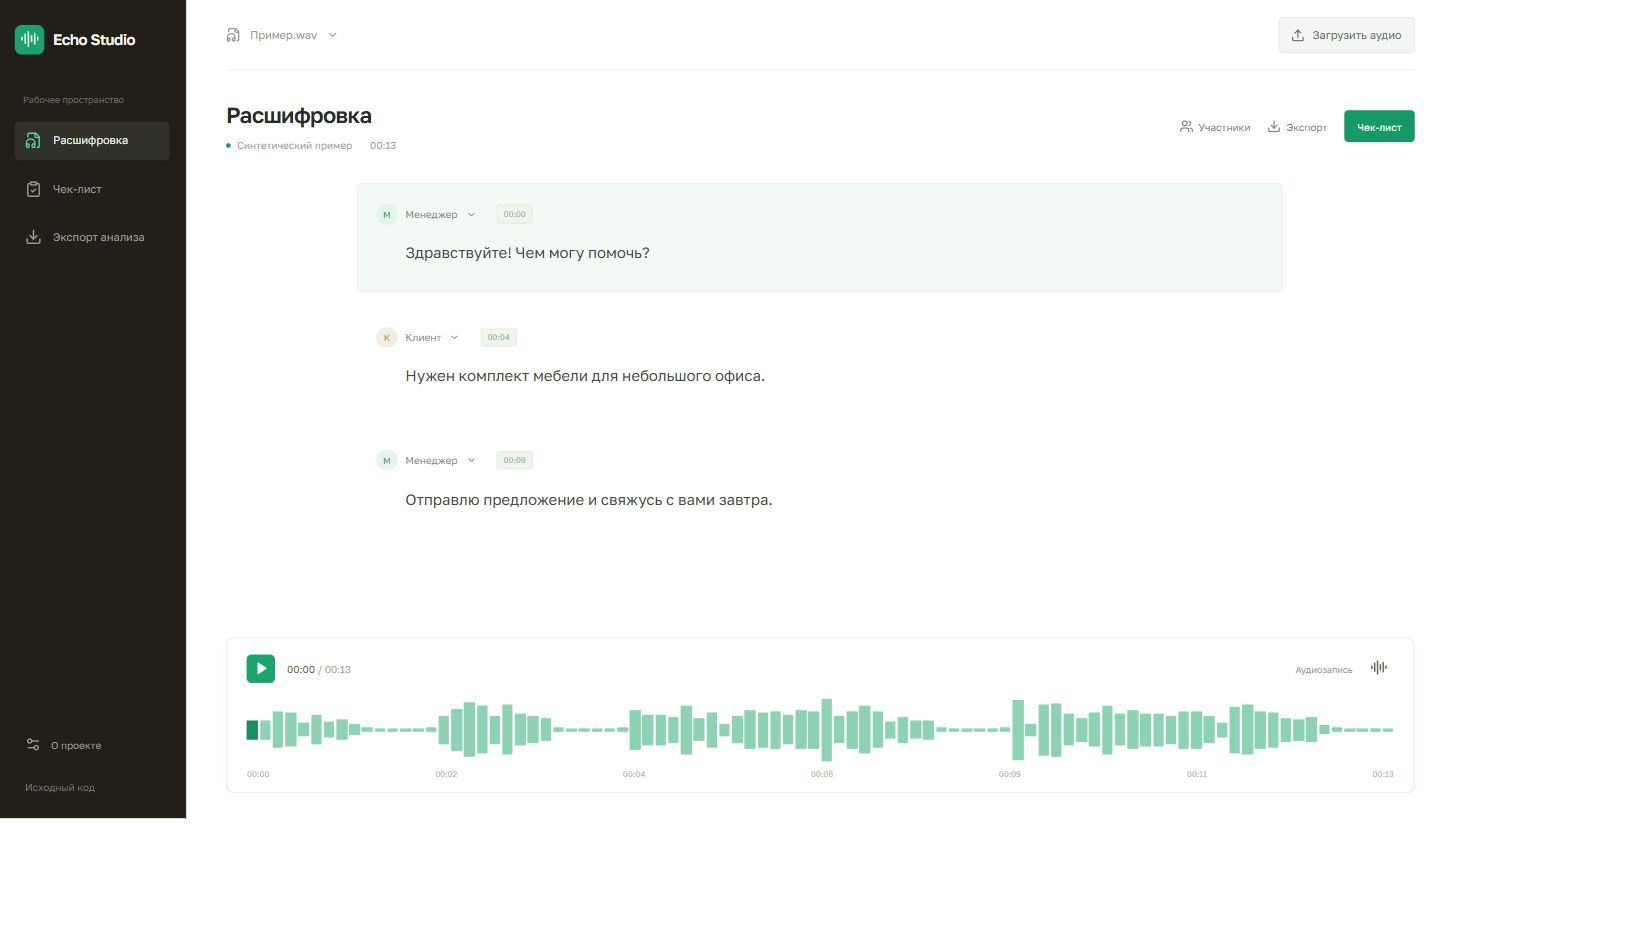
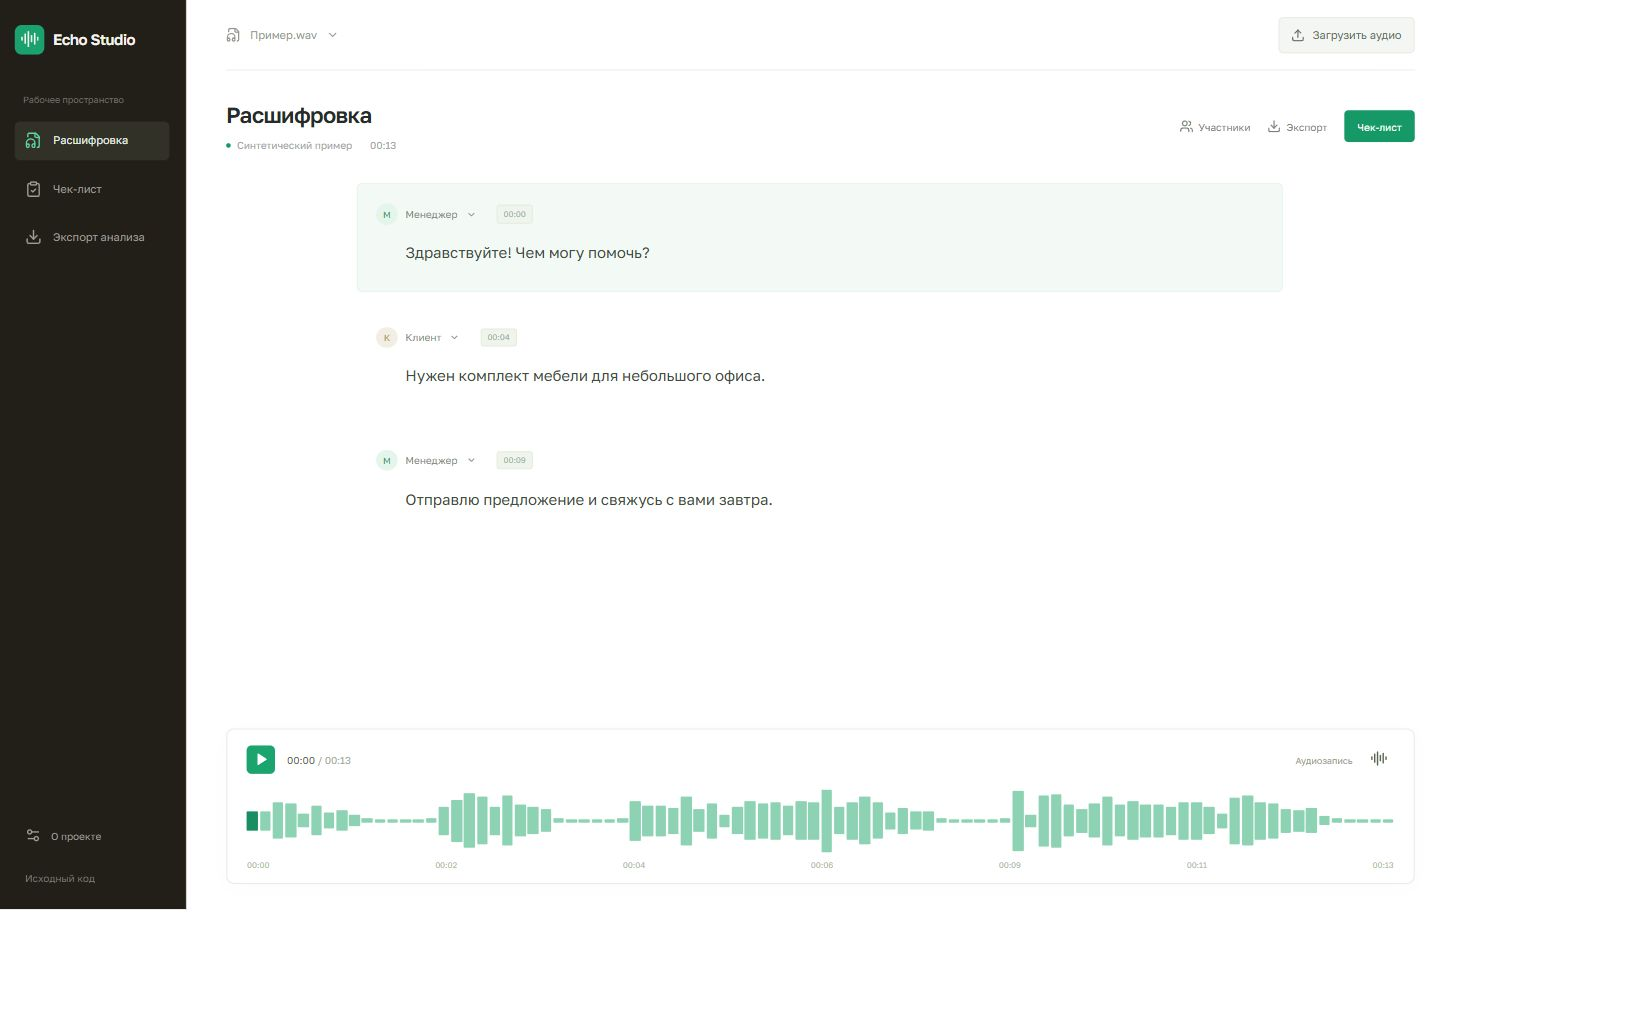
Improve project documentation and refresh clean interface previews

diff --git a/src/styles.css b/src/styles.css
@@ -1,2 +1,4 @@
 @import url('https://fonts.googleapis.com/css2?family=Golos+Text:wght@400;500;600;700&display=swap');
 :root{font-family:'Golos Text',Arial,sans-serif;background:#fff;color:#262c29;font-synthesis:none;--green:#179867;--line:#eef0ed;--muted:#9b9f99}*{box-sizing:border-box}body{margin:0}button,input,select{font:inherit}button{cursor:pointer;border:0;background:transparent;color:inherit}button:disabled{opacity:.45;cursor:default}button:focus-visible,a:focus-visible,select:focus-visible{outline:2px solid #15976a;outline-offset:4px}a{text-decoration:none;color:inherit}h1,h2,h3,p{margin:0}.echo-app{display:grid;grid-template-columns:186px minmax(0,1fr);min-height:100vh}.echo-sidebar{background:#221f19;color:#9f9c94;padding:25px 15px;display:flex;flex-direction:column;border-right:1px solid #363126}.echo-brand{display:flex;align-items:center;gap:9px;color:#f6f4ee;font-size:15px;font-weight:600;letter-spacing:-.4px}.echo-brand>span{background:#1aa16e;display:grid;place-items:center;width:29px;height:29px;border-radius:7px}.library-label{font-size:9px;color:#706f66;margin:40px 8px 16px}.echo-sidebar nav{display:flex;flex-direction:column;gap:9px}.echo-sidebar nav button{display:flex;align-items:center;gap:11px;padding:11px 10px;font-size:11px;text-align:left;border-radius:5px}.echo-sidebar nav button.active{background:#323128;color:#e4eee3}.echo-sidebar nav button.active svg{color:#5fd5a1}.sidebar-bottom{margin-top:auto;display:flex;flex-direction:column;gap:18px;padding-top:35px;font-size:10px}.sidebar-bottom button{display:flex;align-items:center;gap:10px;padding:10px}.sidebar-bottom a{padding:0 10px;color:#79786f}.echo-main{display:flex;flex-direction:column;height:100vh;min-height:710px;min-width:0;padding:0 40px 25px;background:#fff}.echo-toolbar{height:71px;display:flex;justify-content:space-between;align-items:center;border-bottom:1px solid var(--line);gap:15px;flex-shrink:0}.record-name{display:flex;align-items:center;gap:9px;font-size:11px;color:#93998f}.upload-btn{display:flex;align-items:center;gap:7px;font-size:11px;color:#626d63;background:#f4f6f3;border:1px solid #e7ece5;border-radius:5px;padding:10px 12px}.document-head{display:flex;justify-content:space-between;align-items:center;gap:20px;padding:30px 0 23px;flex-shrink:0}.document-head h1{font-size:22px;font-weight:600;letter-spacing:-.6px}.document-head p{display:flex;align-items:center;gap:6px;font-size:10px;color:#a1a69d;margin-top:12px}.dot{height:5px;width:5px;border-radius:50%;background:var(--green)}.duration{margin-left:12px}.document-actions{display:flex;align-items:center;gap:17px}.document-actions>button{display:flex;align-items:center;gap:5px;font-size:10px;color:#7b8277;padding:7px 0}.green,.document-actions>button.green{background:var(--green);color:#fff;border-radius:4px;font-size:10px;padding:10px 13px}.document-body{flex:1;min-height:200px;overflow:auto;padding:8px 0 20px}.transcript{max-width:950px;margin:0 auto;padding:0 12px}.utterance{padding:20px 18px 25px;border-radius:5px;margin-bottom:13px;border:1px solid transparent}.utterance.active{background:#f3faf6;border-color:#eaf3ec}.speaker-row{display:flex;align-items:center;gap:8px;margin-bottom:14px}.speaker-avatar{height:21px;width:21px;border-radius:50%;background:#e4f6ec;color:#4b976e;display:grid;place-items:center;font-size:9px}.speaker-avatar.client{background:#f2eee3;color:#a79964}.speaker{display:flex;align-items:center;gap:8px;color:#7f8e7e;font-size:10px;padding:0}.timestamp{font-size:8px;color:#a1b09d;background:#eff5ec;border:1px solid #e6eddf;padding:3px 6px;border-radius:3px;margin-left:12px}.transcript-text{text-align:left;display:block;width:100%;padding:0 0 0 29px;line-height:1.85;font-size:15px;color:#434c41}.role-editor{display:flex;align-items:center;gap:12px;margin:18px 0 0 29px;font-size:11px;color:#87927d}.role-editor select{font-size:11px;padding:8px;border:1px solid #dce5d5;border-radius:4px;color:#556a47;background:#fff}.roles-save{margin:10px 30px}.audio-dock{border:1px solid #e8ede6;border-radius:8px;padding:16px 20px 12px;box-shadow:0 3px 20px #18291b03;flex-shrink:0;background:#fff}.transport{display:flex;align-items:center;gap:12px;font-size:10px;color:#596650}.play-btn{display:grid;place-items:center;background:#1ca46e;color:white;height:28px;width:28px;border-radius:5px}.muted{color:#a4aca0}.audio-format{margin-left:auto;color:#99a48f;font-size:9px}.wave{height:74px;display:flex;align-items:center;gap:2px;padding:4px 0;margin-top:10px;overflow:hidden}.wave button{flex:1;min-width:2px;padding:0;border-radius:1px;background:#8cd2b3}.wave button.played{background:#198e62}.ruler{display:flex;justify-content:space-between;font-size:8px;color:#adb9a4;margin-top:3px}.checklist-view{max-width:950px;margin:0 auto;padding:15px}.checklist-summary{display:flex;align-items:center;gap:22px;padding:0 0 30px;border-bottom:1px solid var(--line)}.checklist-summary>span{font-size:30px;font-weight:500;color:#1b9467}.checklist-summary h2{font-size:14px;font-weight:550}.checklist-summary p{font-size:11px;color:#9ba693;margin-top:8px}.check-row{width:100%;display:flex;align-items:center;gap:18px;text-align:left;padding:26px 0;border-bottom:1px solid var(--line)}.check-row svg{color:#1da773;flex-shrink:0}.check-row h3{font-size:13px;font-weight:500}.check-row p{font-size:12px;color:#8b9583;margin-top:10px}.check-row>span{margin-left:auto;font-size:10px;color:#72a37d}.method{font-size:10px;color:#a1ad99;margin-top:25px;line-height:1.6}.empty{color:#9aa493;padding:30px;font-size:12px}.error{background:#fff0e9;color:#a35c40;font-size:12px;border-radius:5px;padding:12px;margin-top:15px}.echo-backdrop{position:fixed;inset:0;background:#21271c66;backdrop-filter:blur(3px);display:grid;place-items:center;padding:20px;z-index:20}.echo-dialog{padding:25px;background:#fff;border-radius:10px;max-width:460px;border:1px solid #e0e7da}.echo-dialog header{display:flex;justify-content:space-between;align-items:center;margin-bottom:25px}.echo-dialog h2{font-size:18px}.echo-dialog p{font-size:13px;line-height:1.9;margin-bottom:18px;color:#7a8870}@media(min-width:1500px){.echo-app{grid-template-columns:210px minmax(0,1fr)}.echo-main{padding-left:55px;padding-right:55px}.transcript{max-width:1100px}.document-head{padding-top:35px}.utterance{padding:25px 22px 30px}}@media(max-width:1050px){.echo-app{grid-template-columns:165px 1fr}.echo-main{padding:0 24px 22px}.document-actions{gap:10px}.document-head h1{font-size:20px}.echo-sidebar{padding:20px 10px}.echo-brand{font-size:13px}}@media(max-width:700px){.echo-app{display:block}.echo-sidebar{flex-direction:row;align-items:center;justify-content:space-between;padding:12px 14px;border-right:0}.echo-brand{font-size:13px}.echo-brand>span{width:25px;height:25px}.echo-sidebar nav{flex-direction:row;gap:3px}.echo-sidebar nav button{font-size:0;padding:8px}.echo-sidebar nav button svg{height:17px;width:17px}.library-label,.sidebar-bottom{display:none}.echo-main{height:calc(100dvh - 53px);min-height:630px;padding:0 16px 16px}.echo-toolbar{height:60px}.document-head{padding:25px 0 10px;align-items:flex-start;gap:12px}.document-head h1{font-size:18px}.document-actions{gap:7px;flex-wrap:wrap;justify-content:end;max-width:145px}.document-actions>button{font-size:9px}.document-actions>button:first-child{display:none}.transcript{padding:0}.utterance{padding:17px 8px}.transcript-text{font-size:13px;line-height:1.8}.document-head p{font-size:8px}.audio-dock{padding:13px 12px}.wave{height:65px}.checklist-view{padding:10px 0}.checklist-summary{gap:14px}.checklist-summary h2{font-size:12px}.check-row{gap:12px}.check-row p{font-size:11px}.check-row h3{font-size:12px}.ruler{font-size:7px}}@media(prefers-reduced-motion:reduce){*{transition:none!important;animation:none!important}}
+
+html[data-preview],html[data-preview] *{scrollbar-width:none!important}html[data-preview]::-webkit-scrollbar,html[data-preview] *::-webkit-scrollbar{display:none!important}

diff --git a/src/main.tsx b/src/main.tsx
@@ -1,1 +1,1 @@
-import React from 'react';import {createRoot} from 'react-dom/client';import App from './App';import './styles.css';createRoot(document.getElementById('root')!).render(<React.StrictMode><App/></React.StrictMode>);
+import React from 'react';import {createRoot} from 'react-dom/client';import App from './App';import './styles.css';if(new URLSearchParams(window.location.search).has('preview'))document.documentElement.setAttribute('data-preview','');createRoot(document.getElementById('root')!).render(<React.StrictMode><App/></React.StrictMode>);

diff --git a/README.md b/README.md
@@ -1,59 +1,50 @@
 # Echo Studio
 
-Audio review with synchronized transcripts, evidence-based checklists and local speech recognition.
+Разбор аудиозаписей в одном окне: расшифровка, участники разговора и чек-лист с подтверждающими репликами. Нажатие на реплику переводит запись к нужному моменту.
 
-![Interface](docs/preview.png)
+[![Проверки](https://github.com/famelikolbut5/echo-studio/actions/workflows/ci.yml/badge.svg)](https://github.com/famelikolbut5/echo-studio/actions/workflows/ci.yml)
 
-[Validation notes](docs/VALIDATION.md) · [Source license](LICENSE)
+![Интерфейс Echo Studio](docs/preview.png)
 
-## What it does
+## Возможности
 
-Речь - расшифровка с временными метками - правила чек-листа - проверка фрагмента и экспорт JSON.
+- Загрузка аудио и локальная расшифровка через faster-whisper.
+- Прослушивание записи с переходом по временным меткам.
+- Ручное назначение ролей менеджера и клиента.
+- Проверка чек-листа по ключевым словам и экспорт результата в JSON.
 
-Audio - faster-whisper - word timestamps - transparent keyword checklist - synchronized review.
+## Как устроен проект
 
-Independent portfolio demo, written from scratch. Synthetic examples only. No commercial source, proprietary prompts, client recordings or customer data.
+Распознавание выполняется на сервере, без отправки записи во внешний сервис. Чек-лист показывает найденную реплику и время, чтобы результат можно было проверить на слух. Роли участников можно назначить вручную.
 
-## Run locally
+**Стек:** Python, FastAPI, faster-whisper, React, TypeScript, Vite.
 
-Python 3.12, Node 22 and pnpm 11.19.0:
+## Структура
 
-```sh
-python -m venv .venv
-# Windows: .venv\Scripts\activate
-# Linux/macOS: source .venv/bin/activate
-pip install -r requirements.txt
-pnpm install --frozen-lockfile
-pnpm build
-uvicorn backend.app:app --host 127.0.0.1 --port 8000
+```text
+backend/        обработка аудио, расшифровка и проверка чек-листа
+src/            интерфейс, состояния и работа с API
+public/         синтетическая запись для первого знакомства
+tests/          проверки поведения серверной части
+docs/           запуск, проверки и материалы проекта
+Dockerfile      сборка интерфейса и серверного приложения
+compose.yml     локальный запуск с сохранением данных
 ```
 
-Open http://127.0.0.1:8000. For UI development: `pnpm dev` (API proxy expects port 8000).
+## Запуск
+
+Нужны Git и Docker. Каждый проект запускается отдельно на порту 8000.
 
 ```sh
+git clone https://github.com/famelikolbut5/echo-studio.git
+cd echo-studio
 docker compose up --build
 ```
 
-Local-only binding is deliberate. These demos have no user authentication and are not hardened multi-user hosted services.
+Откройте [localhost:8000](http://localhost:8000). [Запуск без Docker и настройки](docs/RUNNING.md).
 
-## Checks and delivery
+## Состав демоверсии
 
-```sh
-pip install pytest httpx
-pytest -q
-pnpm build
-```
+В комплекте есть синтетическая запись с подготовленной расшифровкой. Можно загрузить собственное аудио и запустить распознавание на сервере.
 
-GitHub Actions runs backend checks, TypeScript/build checks and Docker image build. Model credentials are never included in CI or a public image.
-
-## Boundaries
-
-Роли назначаются вручную. tiny проверен только на синтетическом примере; точность на звонках не измерена. Чек-лист не является оценкой LLM.
-
-The full application runs locally with its Python backend. A static build alone cannot transcribe audio, execute workflows, render video or call Codex.
-
-## Stack and attribution
-
-Python / FastAPI / React / TypeScript / Vite / Motion / Lucide. Google Fonts: Golos Text (SIL OFL). All third-party dependencies retain their own licenses. See `THIRD_PARTY.md`.
-
-MIT for independently authored source. Asset provenance and actual validation: `docs/VALIDATION.md`.
+[Проверки и результаты](docs/VALIDATION.md) | [Лицензии зависимостей и материалов](THIRD_PARTY.md) | [MIT](LICENSE)

diff --git a/docs/VALIDATION.md b/docs/VALIDATION.md
@@ -1,13 +1,20 @@
-# Validation - 2026-10-06
+# Проверки
 
-Windows / Python 3.12 / Node 22 / pnpm 11.19.0. TypeScript checks and production builds passed locally.
-All examples use synthetic data. Local tests do not imply successful hosted CI or quality on real customer data.
+Проверено 6 октября 2026 на Windows: Python 3.12, Node.js 22 и pnpm 11.19.0.
 
-3 tests passed. Real faster-whisper tiny CPU invocation transcribed our synthetic Russian WAV and produced word timestamps. It misrecognized one word in the final sentence. This is one functional smoke test, not a speech recognition benchmark. Keyword checklist scoring is deterministic, not LLM evaluation. Audio generated using installed Microsoft Irina speech synthesis.
+## Функциональность
 
-Docker image built and started locally as a non-root user. Static UI and health endpoint returned successfully. Authored demo transcript and synthetic WAV endpoints were checked.
+- 3 серверных теста: обработка и проверка чек-листа.
+- Выполнен реальный вызов faster-whisper tiny на CPU для синтетической русской записи; получены временные метки слов. В последней фразе было неверно распознано одно слово. Это функциональная проверка, а не измерение точности на реальных звонках.
+- В браузере проверены воспроизведение WAV, переход по репликам, ручная смена роли и подтверждающие реплики для трёх пунктов чек-листа.
+- Проверка чек-листа выполняется по ключевым словам и не является оценкой языковой моделью.
 
-## Selected interface verification
+## Сборка и запуск
 
-Final TypeScript/Vite build passed. Browser review at measured 1454 × 818 desktop and 443 px mobile width found no horizontal page overflow. Escape closes project dialogs. `preview.png` is an actual local application screenshot, not a design mockup.
-Actual WAV playback and transcript seeking were checked; a speaker role was changed manually. The keyword checklist showed evidence for 3/3 checks.
+- TypeScript и сборка Vite прошли.
+- Команды Docker Compose из README выполнены: контейнер запустился, API health вернул `ok`, интерфейс доступен на порту 8000.
+- GitHub Actions запускает серверные тесты, проверку TypeScript, сборку интерфейса и Docker-образа. Актуальный результат доступен по значку проверок в README.
+
+## Интерфейс
+
+Превью сделаны с работающего приложения. Проверены ширины 1454 и 443 пикселя: горизонтального переполнения страницы нет. В режиме снимка отсутствуют полосы прокрутки.

diff --git a/docs/RUNNING.md b/docs/RUNNING.md
@@ -1,0 +1,47 @@
+# Запуск и разработка
+
+Для запуска без Docker нужны Python 3.12, Node.js 22 и pnpm 11.19.0. Команды выполняются из корня проекта.
+
+## Windows / PowerShell
+
+```powershell
+python -m venv .venv
+.venv\Scripts\python -m pip install -r requirements.txt
+pnpm install --frozen-lockfile
+pnpm build
+.venv\Scripts\python -m uvicorn backend.app:app --host 127.0.0.1 --port 8000
+```
+
+## Linux / macOS
+
+```sh
+python3 -m venv .venv
+.venv/bin/python -m pip install -r requirements.txt
+pnpm install --frozen-lockfile
+pnpm build
+.venv/bin/python -m uvicorn backend.app:app --host 127.0.0.1 --port 8000
+```
+
+Интерфейс доступен по адресу http://localhost:8000. Для разработки интерфейса запустите `pnpm dev` в отдельном терминале; API должен продолжать работать на порту 8000.
+
+## Проверки
+
+```sh
+python -m pip install pytest httpx
+python -m pytest -q
+pnpm build
+```
+
+Команды `python` должны использовать созданное виртуальное окружение. GitHub Actions проверяет серверную часть, TypeScript, сборку интерфейса и сборку Docker-образа.
+
+## Данные
+
+Локальные файлы сохраняются в `data/`, которая исключена из Git. Docker Compose подключает эту же папку к контейнеру. На Linux владелец папки должен разрешить запись пользователю контейнера с UID 1000. Приложение предназначено для локального запуска и не содержит авторизации пользователей.
+
+## Распознавание
+
+При первой загрузке записи faster-whisper скачивает модель. Встроенный пример можно прослушать без загрузки модели.
+
+## Снимки интерфейса
+
+Для снимков интерфейса используйте `/?preview`: полосы прокрутки скрыты, прокрутка сохраняется. В обычном режиме полосы доступны.
